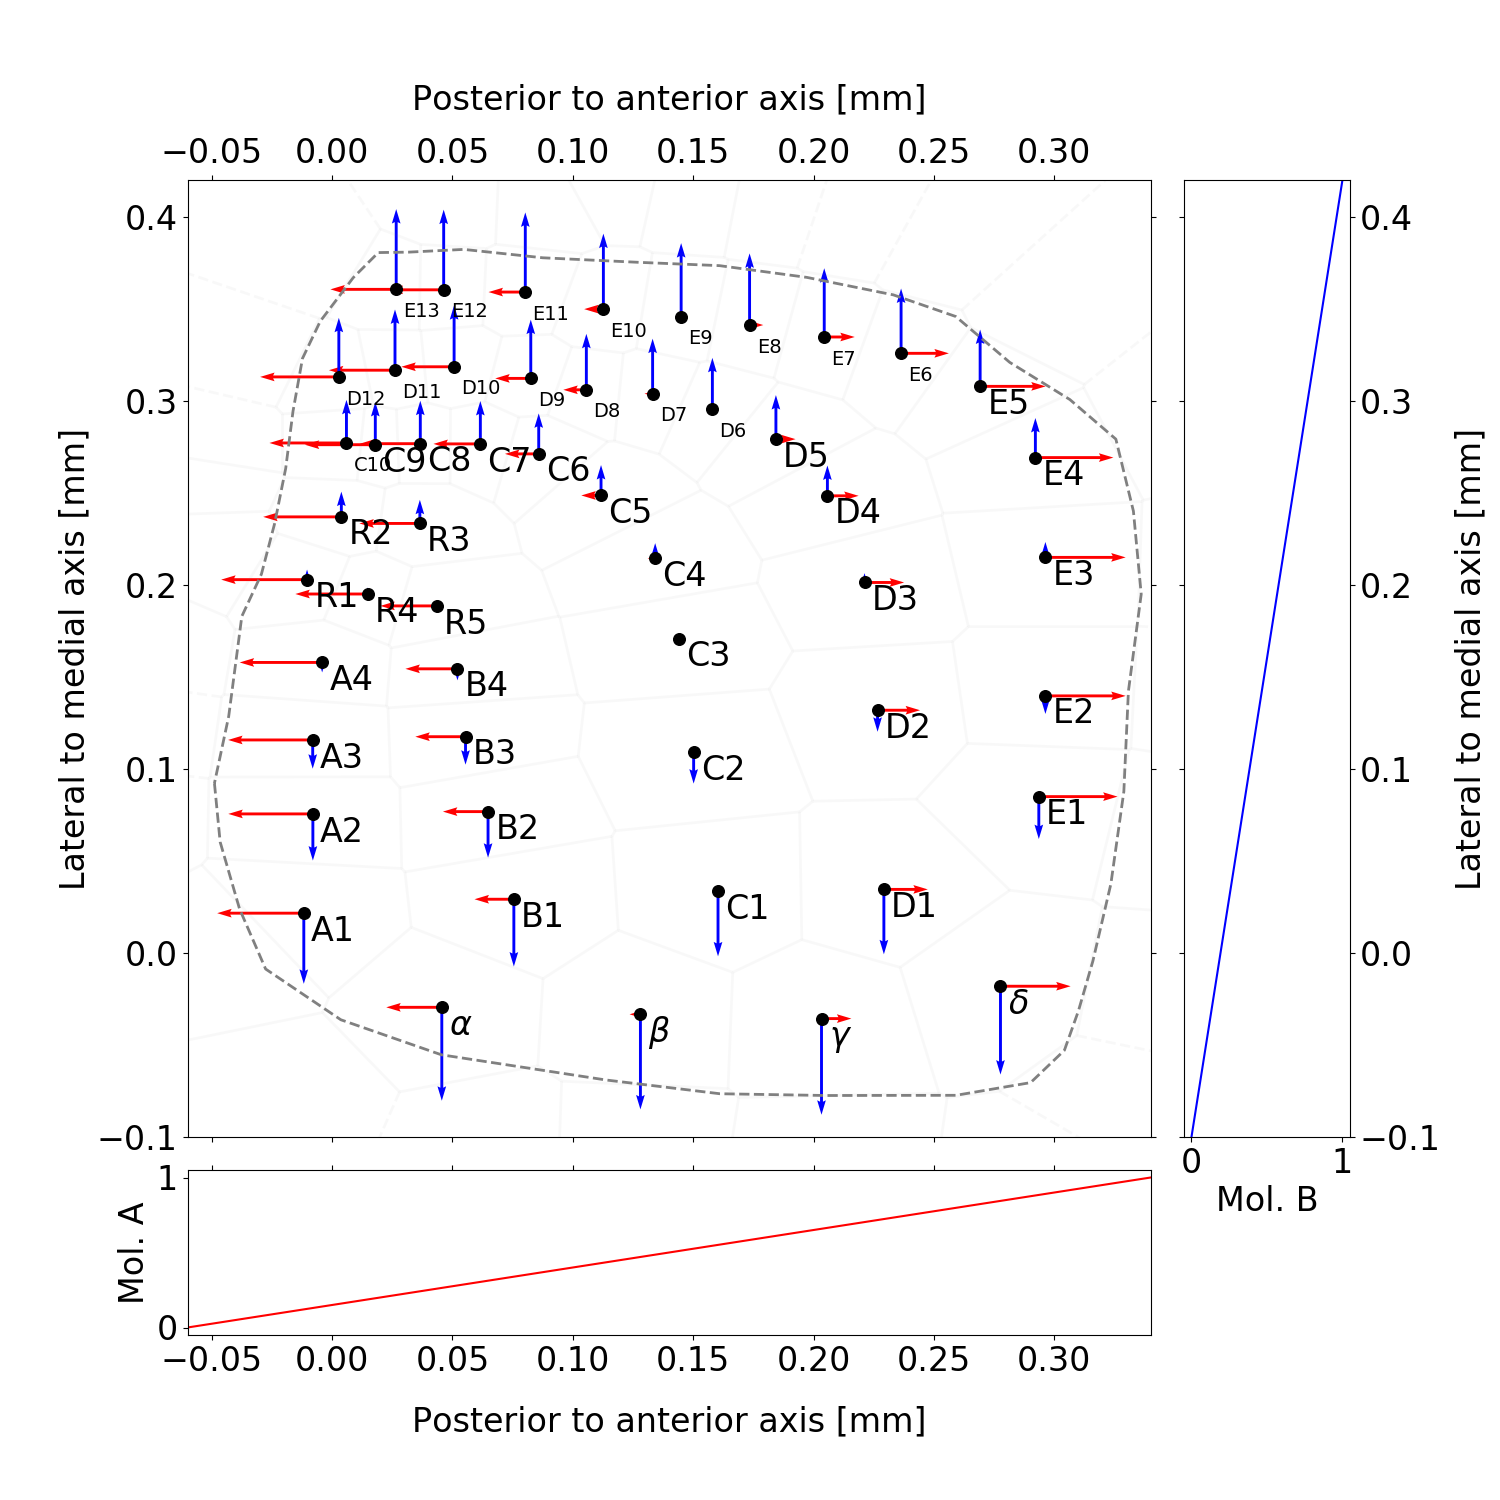
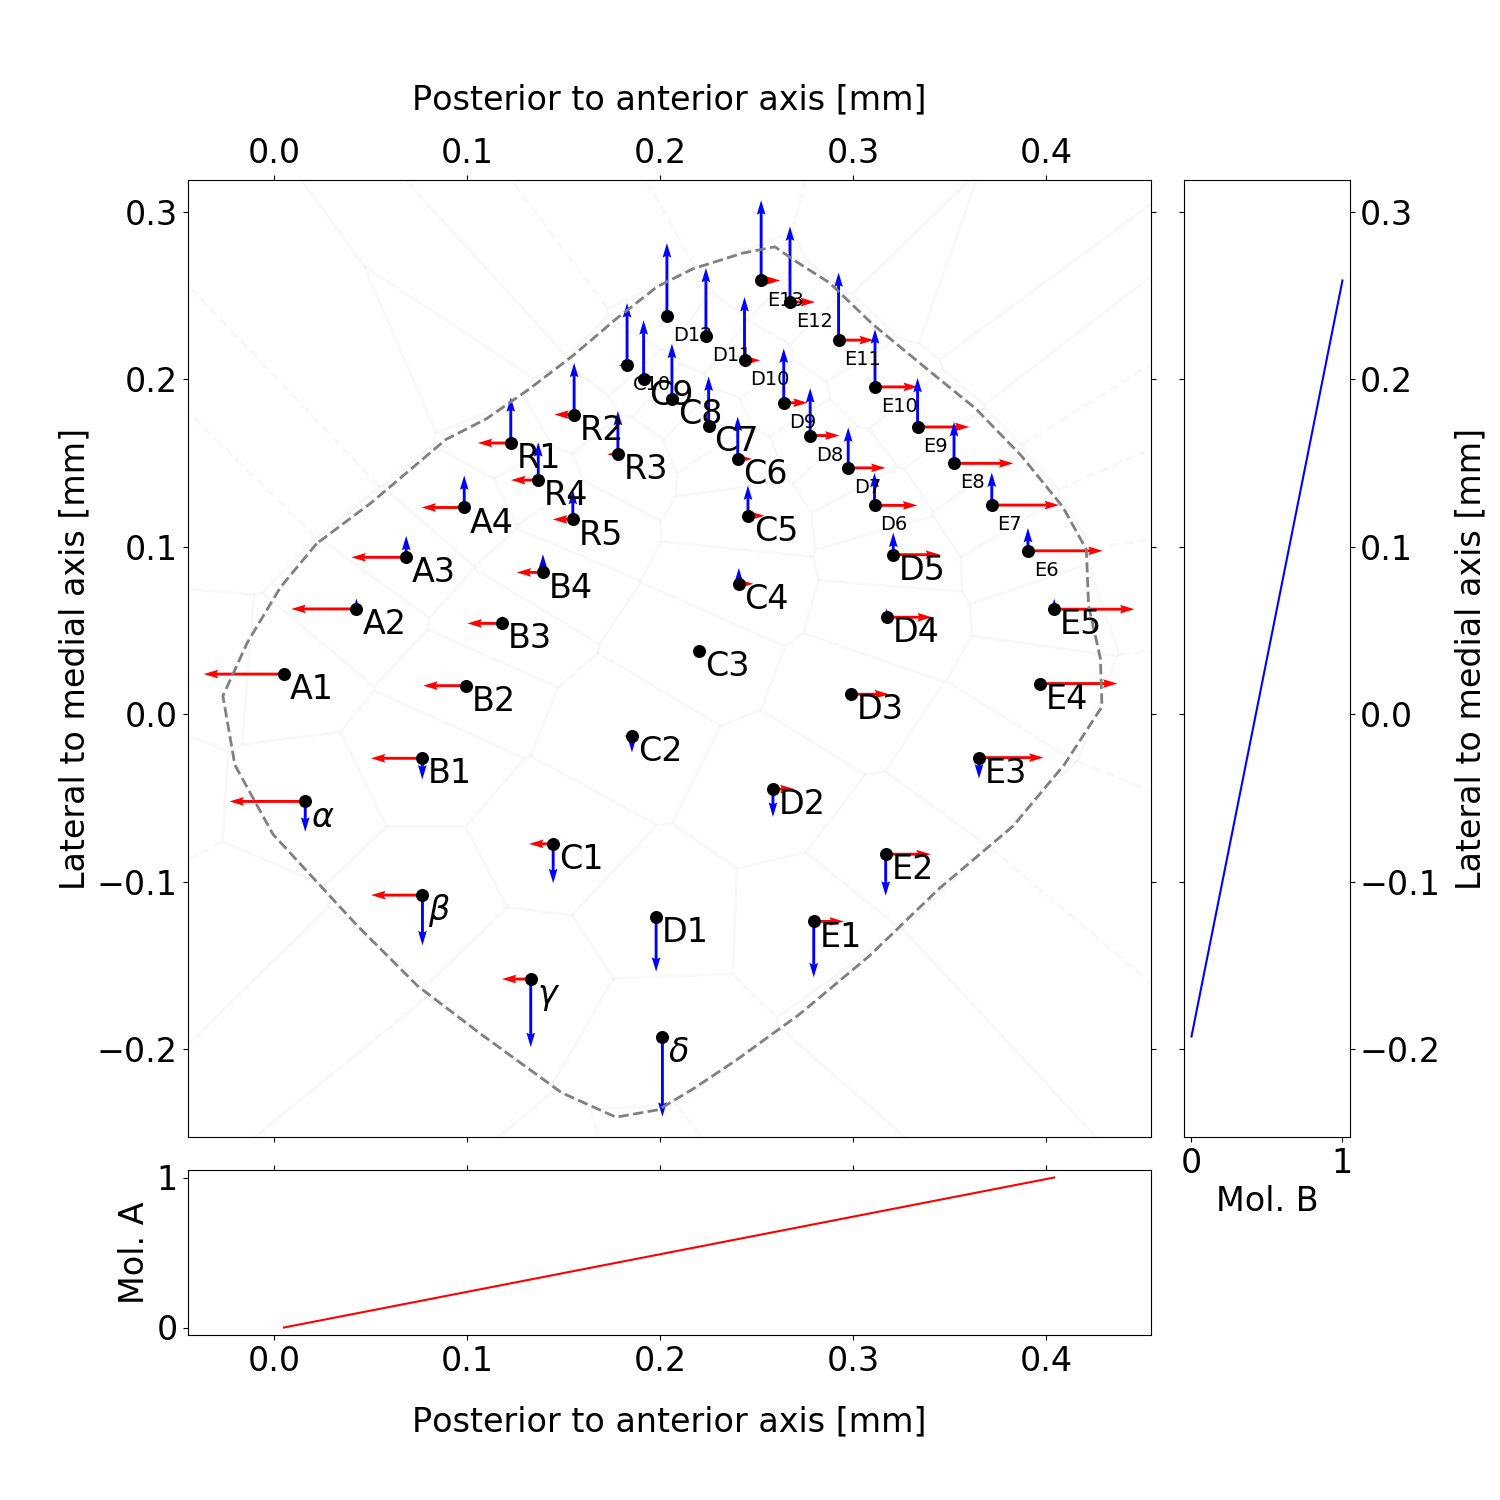
Adds a rotational transformation for the barreloids to choose the angles for the two gradients

diff --git a/boundaries/barreloids_haidarliu.py b/boundaries/barreloids_haidarliu.py
@@ -11,11 +11,13 @@ from scipy.spatial import Voronoi, voronoi_plot_2d, ConvexHull
 # First load data
 import csv
 
+import math
+
 # The dictionary of data
 D = {}
 
 # Params for the output text
-epsilon = 170
+epsilon = 1200
 alpha = 3
 beta = 20
 xinit = -0.16
@@ -23,11 +25,21 @@ yinit = 0.0
 sigmainit = 0.0
 gaininit = 1.0
 
-mx = -1.0
-my = -1.0
+maxx = -1000.0
+maxy = -1000.0
+minx = 1000.0
+miny = 1000.0
 labels = []
 xar = []
 yar = []
+
+# A rotational transformation is applied with this many degrees:
+phi = -40
+
+# Compute cos(phi) and sin(phi)
+pr = phi/360.0 * 2.0 * math.pi # "phi in radians"
+cosphi = math.cos(pr)
+sinphi = math.sin(pr)
 
 # gmax/gmin delimit the ranges that I want for the guidance
 # gradient interactions. I'll compute this so that four guidance
@@ -38,27 +50,45 @@ gmin = 0.0
 with open('barreloids_haidarliu.csv') as csvDataFile:
     csvReader = csv.reader (csvDataFile)
 
-    # Run through and find max x and max y, and read x, y and label
-    # into python lists
+    # First run reads the raw x/y values out and transform them.
     for row in csvReader:
         if row[0] == 'x': continue # skip header
         x = float(row[0])
         y = float(row[1])
-        xar.append(x)
-        yar.append(y)
+        # Transform here:
+        x_ = x * cosphi - y * sinphi
+        y_ = y * cosphi + x * sinphi
+        xar.append(x_)
+        yar.append(y_)
         labels.append(row[2])
-        if x > mx: mx = x
-        if y > my: my = y
 
+    # Run through and find max x and max y,
+    for i in range(0,len(xar)):
+        if xar[i] > maxx: maxx = xar[i]
+        if yar[i] > maxy: maxy = yar[i]
+        if xar[i] < minx: minx = xar[i]
+        if yar[i] < miny: miny = yar[i]
+
+    # Now compute the tradients
     for i in range(0,len(xar)):
         x = xar[i]
         y = yar[i]
         lbl = labels[i]
-        # compute g1 to g4
-        g1 = x*(gmax/mx)
-        g2 = (mx-x)*(gmax/mx)
-        g3 = y*(gmax/my)
-        g4 = (my-y)*(gmax/my)
+        # compute g1 to g4 - 4 gradients (combine into two later if required)
+        #g1 = x*(gmax/maxx)
+        #g2 = (maxx-x)*(gmax/maxx)
+        #g3 = y*(gmax/maxy)
+        #g4 = (maxy-y)*(gmax/maxy)
+        gd = (gmax-gmin)/(maxx-minx)
+        g1 = gd * (x + maxx - minx)
+        x_ = minx - x + maxx
+        print ('minx: {0} maxx: {1}, x: {2} x_: {3}'.format (minx, maxx, x, x_))
+        g2 = gd * (x_ + maxx - minx)
+        gd = (gmax-gmin)/(maxy-miny)
+        g3 = gd * (y + maxy - miny)
+        y_ = miny - y + maxy
+        g4 = gd * (y_ + maxy - miny)
+
         # stick in a np array
         ar = np.array((x,y,g1,g2,g3,g4,0)) # last entry is for area, filled later
         # stick array in a dictionary keyed by lbl
@@ -73,8 +103,10 @@ with open('barreloids_haidarliu_boundary_ordered.csv') as csvDataFile:
         if row[0] == 'op': continue # skip header
         x = float(row[1])
         y = float(row[2])
-        bndry_x.append(x)
-        bndry_y.append(y)
+        x_ = x * cosphi - y * sinphi
+        y_ = y * cosphi + x * sinphi
+        bndry_x.append(x_)
+        bndry_y.append(y_)
 
 # Produce guidance interactions for 4 gradients (two opposing pairs, orthogonally
 # arranged) or two orthogonal gradients for which interactions will be positive or
@@ -182,6 +214,13 @@ ar = np.array(([[0.3341, -0.07811], \
                 [-0.0878, 0.1246], \
                 [-0.0948, 0.0768], \
                 [-0.042, -0.0005]]))
+
+# Transform points
+x__ = ar[:,0] * cosphi - ar[:,1] * sinphi
+y__ = ar[:,1] * cosphi + ar[:,0] * sinphi
+ar[:,0] = x__
+ar[:,1] = y__
+
 vor.add_points (ar)
 
 vpts2 = vor.points
@@ -232,24 +271,27 @@ meanarea = areatotal / len(D)
 # Add the Voronoi boundaries to the diagram
 voronoi_plot_2d (vor, ax=ax0, show_vertices=False, show_points=False, line_colors='grey', line_width=2, line_alpha=0.05)
 
-ax0.set_xlim([-0.06, 0.34])
-ax0.set_ylim([-0.1, 0.42])
+xbord = 0.05
+ybord = 0.06
+
+ax0.set_xlim([minx-xbord, maxx+xbord])
+ax0.set_ylim([miny-ybord, maxy+ybord])
 ax0.yaxis.set_ticks_position('both')
 ax0.xaxis.set_ticks_position('both')
 # Tick labels on top, not bottom:
 ax0.xaxis.set_tick_params (labeltop=True,labelbottom=False)
 
-ax_r.plot ([0,1],[-0.1,0.42],'-',color='b')
+ax_r.plot ([0,1],[miny,maxy],'-',color='b')
 ax_r.set_xlabel ('Mol. B')
 ax_r.yaxis.tick_right()
 #ax_r.xaxis.set_ticks_position('both')
 ax_r.yaxis.set_ticks_position('both')
-ax_d.plot ([-0.06,0.34],[0,1],'-',color='r')
+ax_d.plot ([minx,maxx],[0,1],'-',color='r')
 ax_d.xaxis.set_ticks_position('both')
 #ax_d.yaxis.set_ticks_position('both')
 ax_d.set_ylabel ('Mol. A')
-ax_d.set_xlim([-0.06, 0.34])
-ax_r.set_ylim([-0.1, 0.42])
+ax_d.set_xlim([minx-xbord, maxx+xbord])
+ax_r.set_ylim([miny-ybord, maxy+ybord])
 
 ax0.set_xlabel('Posterior to anterior axis [mm]', labelpad=20)
 ax0.xaxis.set_label_position('top')
